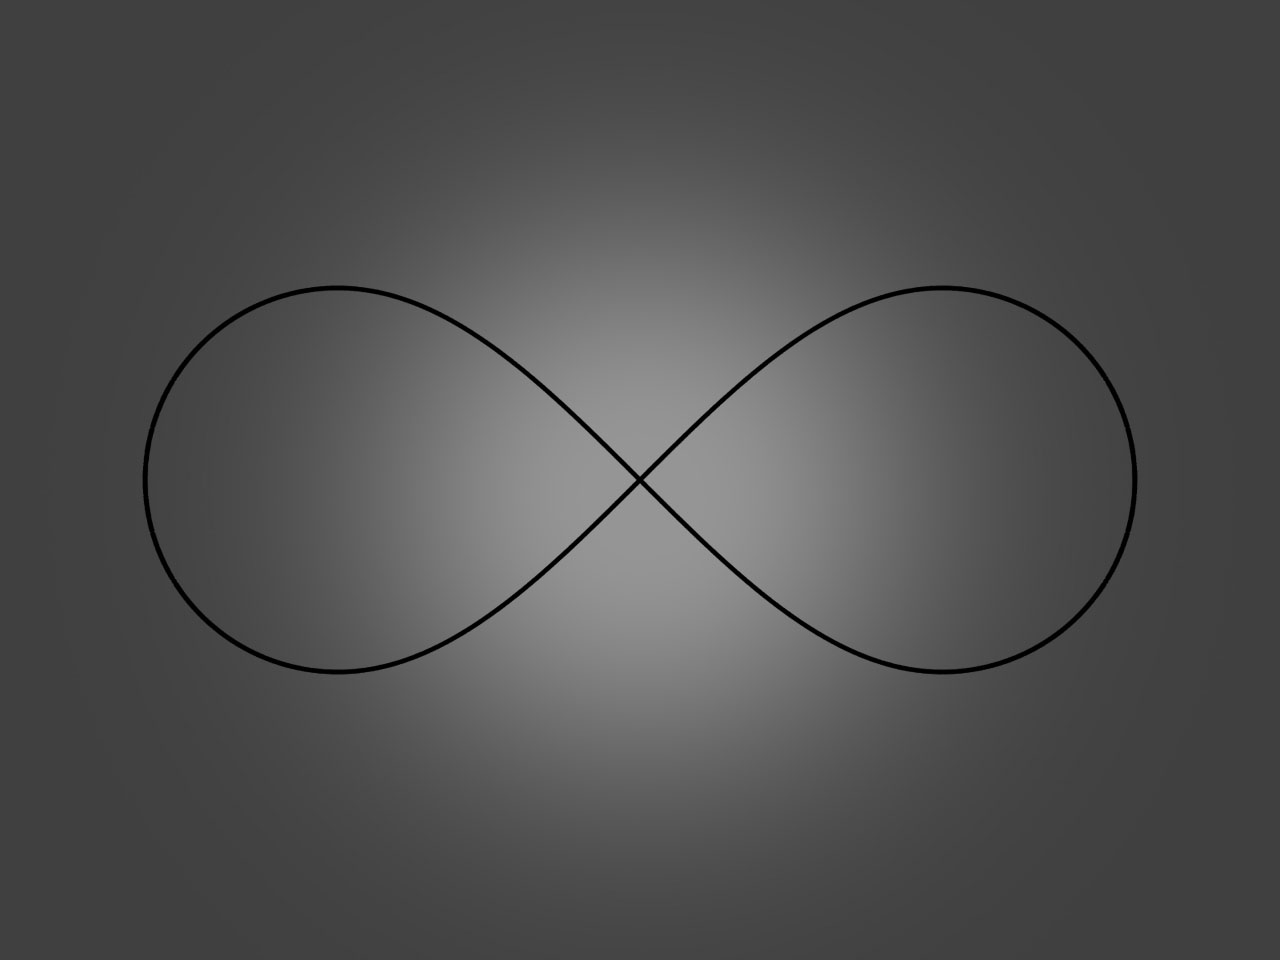
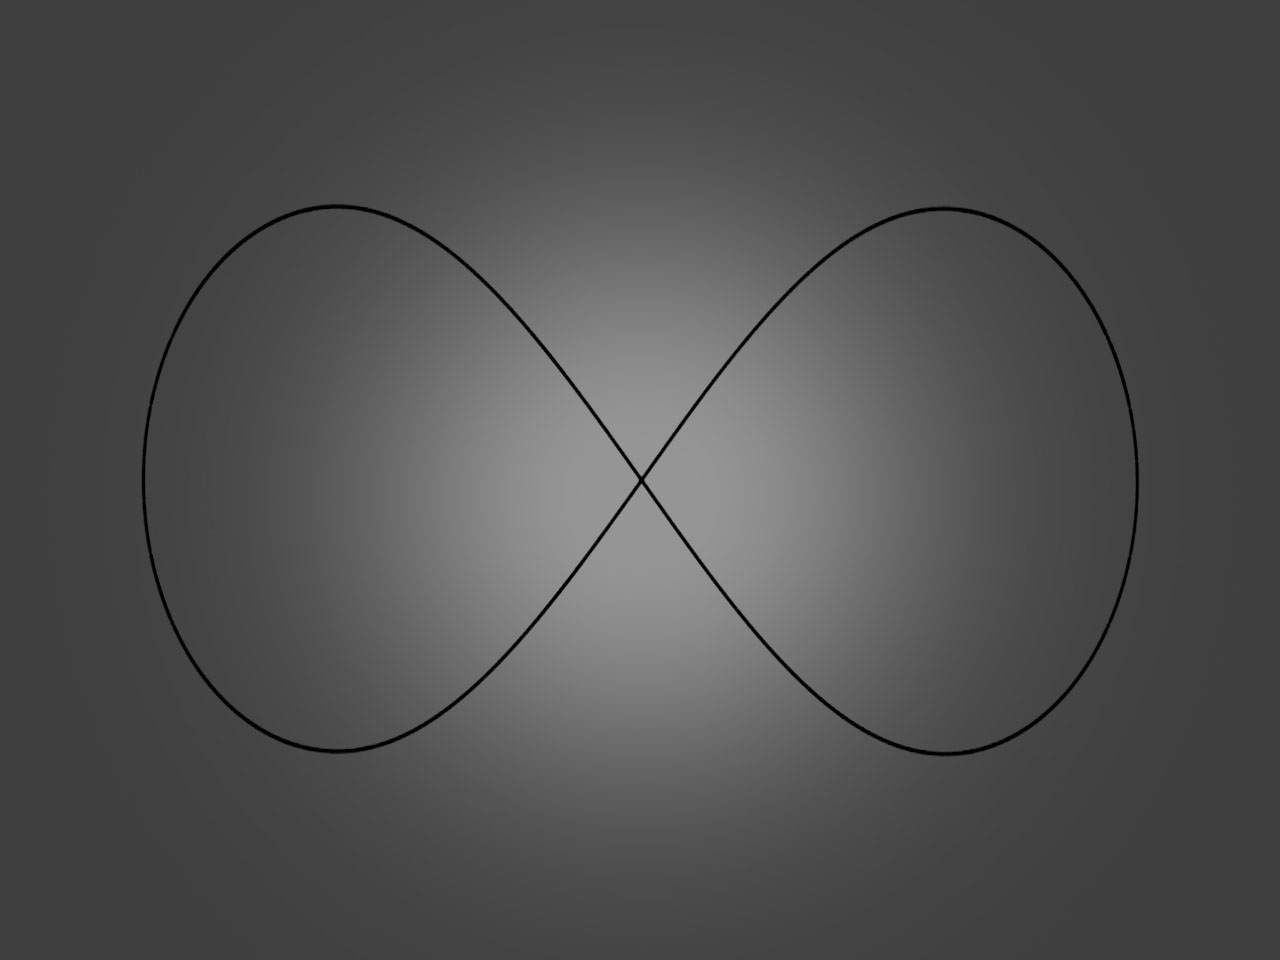
Added loop logic!

diff --git a/core/src/com/mygdx/game/GameScene.java b/core/src/com/mygdx/game/GameScene.java
@@ -5,6 +5,8 @@ import com.badlogic.gdx.graphics.GL20;
 import com.badlogic.gdx.graphics.Texture;
 import com.badlogic.gdx.graphics.g2d.Sprite;
 import com.badlogic.gdx.graphics.g2d.SpriteBatch;
+import com.badlogic.gdx.graphics.glutils.ShapeRenderer;
+import com.badlogic.gdx.math.CatmullRomSpline;
 import com.badlogic.gdx.math.Vector2;
 import com.badlogic.gdx.math.Vector3;
 
@@ -22,7 +24,11 @@ public class GameScene extends BaseScene {
     Vector3 touchPos;
     Sprite ball;
 
-    Vector2 starPos;
+    Vector2 turnPos = new Vector2(1136,479);
+    Vector2 startPos = new Vector2(145,479);
+
+
+
     ArrayList<Sprite> balls;
 
     double speed = 0.001f;
@@ -41,17 +47,89 @@ public class GameScene extends BaseScene {
         Gdx.gl.glClearColor(0, 0, 0, 1);
         Gdx.gl.glClear(GL20.GL_COLOR_BUFFER_BIT);
 
-        starPos = new Vector2(145,479);
 
         touchPos = new Vector3();
 
         background = new Sprite(new Texture("infin.jpg"));
         ball = new Sprite(new Texture("ball.png"));
-        ball.setPosition(starPos.x-ball.getWidth()/2,starPos.y - ball.getHeight()/2);
+        ball.setPosition(startPos.x-ball.getWidth()/2,startPos.y - ball.getHeight()/2);
+        startPos =  new Vector2(ball.getX(),ball.getY());
         balls = new ArrayList<Sprite>();
         balls.add(ball);
+
+        setup();
+
+
     }
 
+
+    //https://github.com/libgdx/libgdx/wiki/Path-interface-&-Splines
+    int k = 500; //increase k for more fidelity to the spline
+    Vector2[] points = new Vector2[k];
+    Vector2 cp[] = new Vector2[]{
+            new Vector2(144,480),
+            new Vector2(145,450),
+            new Vector2(150,419),
+            new Vector2(157,381),
+            new Vector2(177,325),
+            new Vector2(197,291),
+            new Vector2(212,272),
+            new Vector2(237,248),
+            new Vector2(285,218),
+            new Vector2(351,210),
+            new Vector2(392,219),
+            new Vector2(443,248),
+            new Vector2(499,300),
+            new Vector2(547,355),
+            new Vector2(579,395),
+            new Vector2(625,462),
+            new Vector2(677,536),
+            new Vector2(732,607),
+            new Vector2(777,659),
+            new Vector2(810,692),
+            new Vector2(861,729),
+            new Vector2(909,748),
+            new Vector2(963,750),
+            new Vector2(1024,725),
+            new Vector2(1081,667),
+            new Vector2(1109,616),
+            new Vector2(1124,568),
+            new Vector2(1132,514),
+            new Vector2(1132,441),
+            new Vector2(1118,376),
+            new Vector2(1092,312),
+            new Vector2(1056,261),
+            new Vector2(1000,220),
+            new Vector2(956,210),
+            new Vector2(890,218),
+            new Vector2(808,273),
+            new Vector2(733,353),
+            new Vector2(668,442),
+            new Vector2(591,548),
+            new Vector2(517,641),
+            new Vector2(428,723),
+            new Vector2(358,751),
+            new Vector2(274,737),
+            new Vector2(223,700),
+            new Vector2(185,652),
+            new Vector2(164,599),
+            new Vector2(148,535),
+            new Vector2(144,474)
+
+    };
+    ShapeRenderer rope=new ShapeRenderer();
+    CatmullRomSpline<Vector2> myCatmull;
+    public void setup(){
+        myCatmull = new CatmullRomSpline<Vector2>( cp, true);
+        for(int i = 0; i < k; ++i)
+        {
+            points[i] = new Vector2();
+            myCatmull.valueAt(points[i], ((float)i)/((float)k-1));
+        }
+    }
+    float v = 2f;
+    float current = 0;
+    Vector2 out = new Vector2();
     @Override
     public void render(float delta) {
         super.render(delta);
@@ -59,33 +137,44 @@ public class GameScene extends BaseScene {
         batch.setProjectionMatrix(game.camera.combined);
         batch.begin();
         background.draw(batch);
+
+
+
+
+
+
         Iterator<Sprite> iter = balls.iterator();
 
         while(iter.hasNext()){
             Sprite b = iter.next();
+            myCatmull.derivativeAt(out, current);
+            current += (Gdx.graphics.getDeltaTime() * v) / out.len();
+            if(current >=1){
+                current -=1;
+            }
+            myCatmull.valueAt(out,current);
+            batch.draw(b,out.x-b.getHeight()/2,out.y-b.getHeight()/2);
+
             b.draw(batch);
         }
         batch.end();
 
         update();
+
+
     }
 
     public void update(){
         if(Gdx.input.justTouched()){
             touchPos.set(Gdx.input.getX(),Gdx.input.getY(),0);
             game.camera.unproject(touchPos);
+            System.out.println(touchPos);
         }
 
         Iterator<Sprite> iter = balls.iterator();
 
         while(iter.hasNext()){
             Sprite b = iter.next();
-            double newY = b.getY();
-            double newX;
-
-            speed+=0.1;
-            b.setPosition((float)Math.cos(speed) *100+starPos.x,(float)Math.sin(speed)*100+starPos.y);
-
 
 
         }
